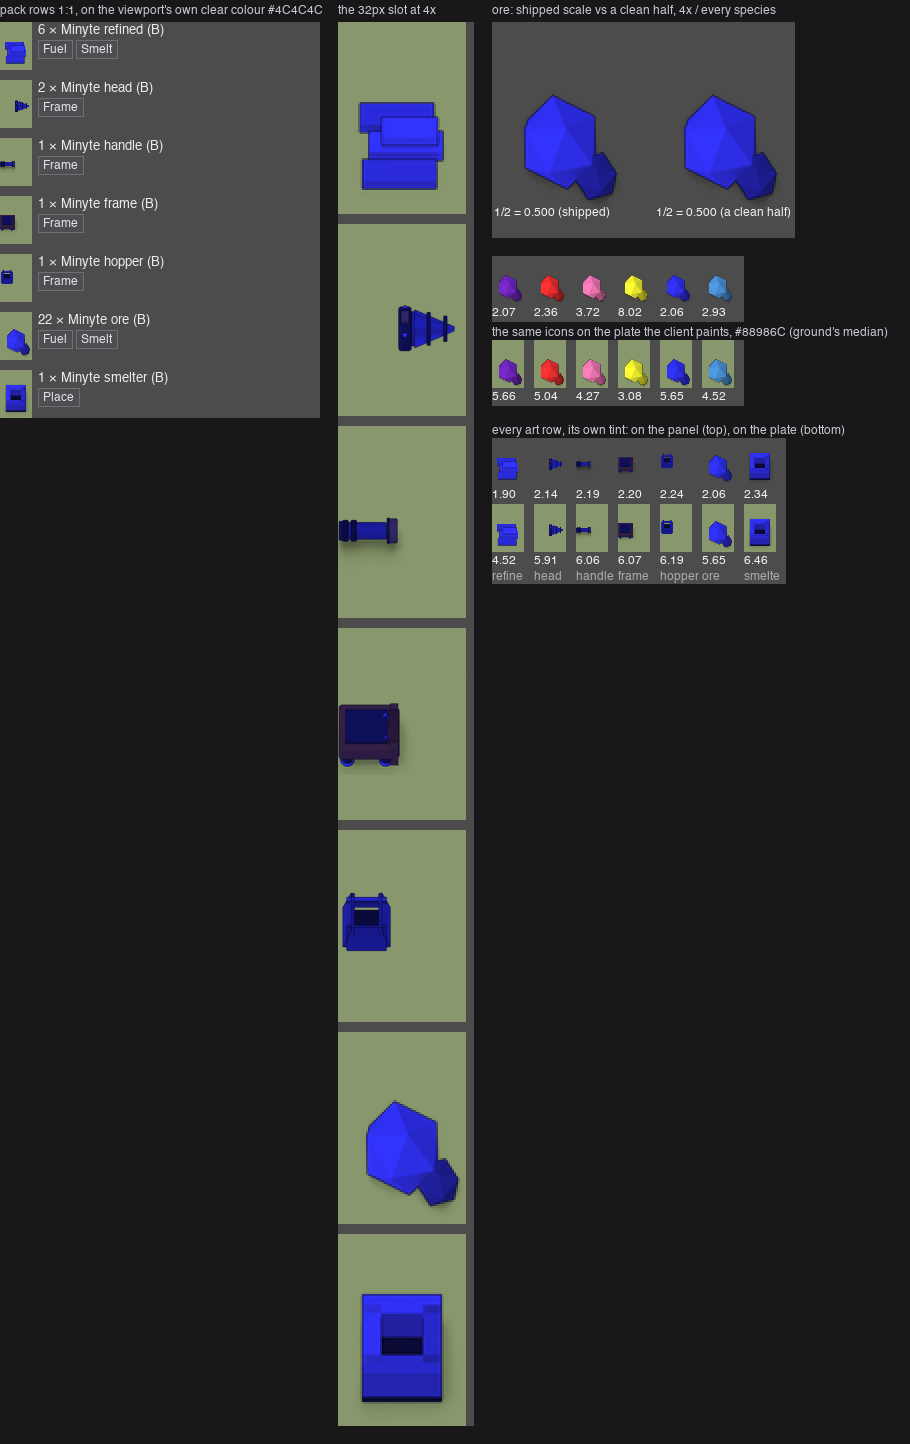
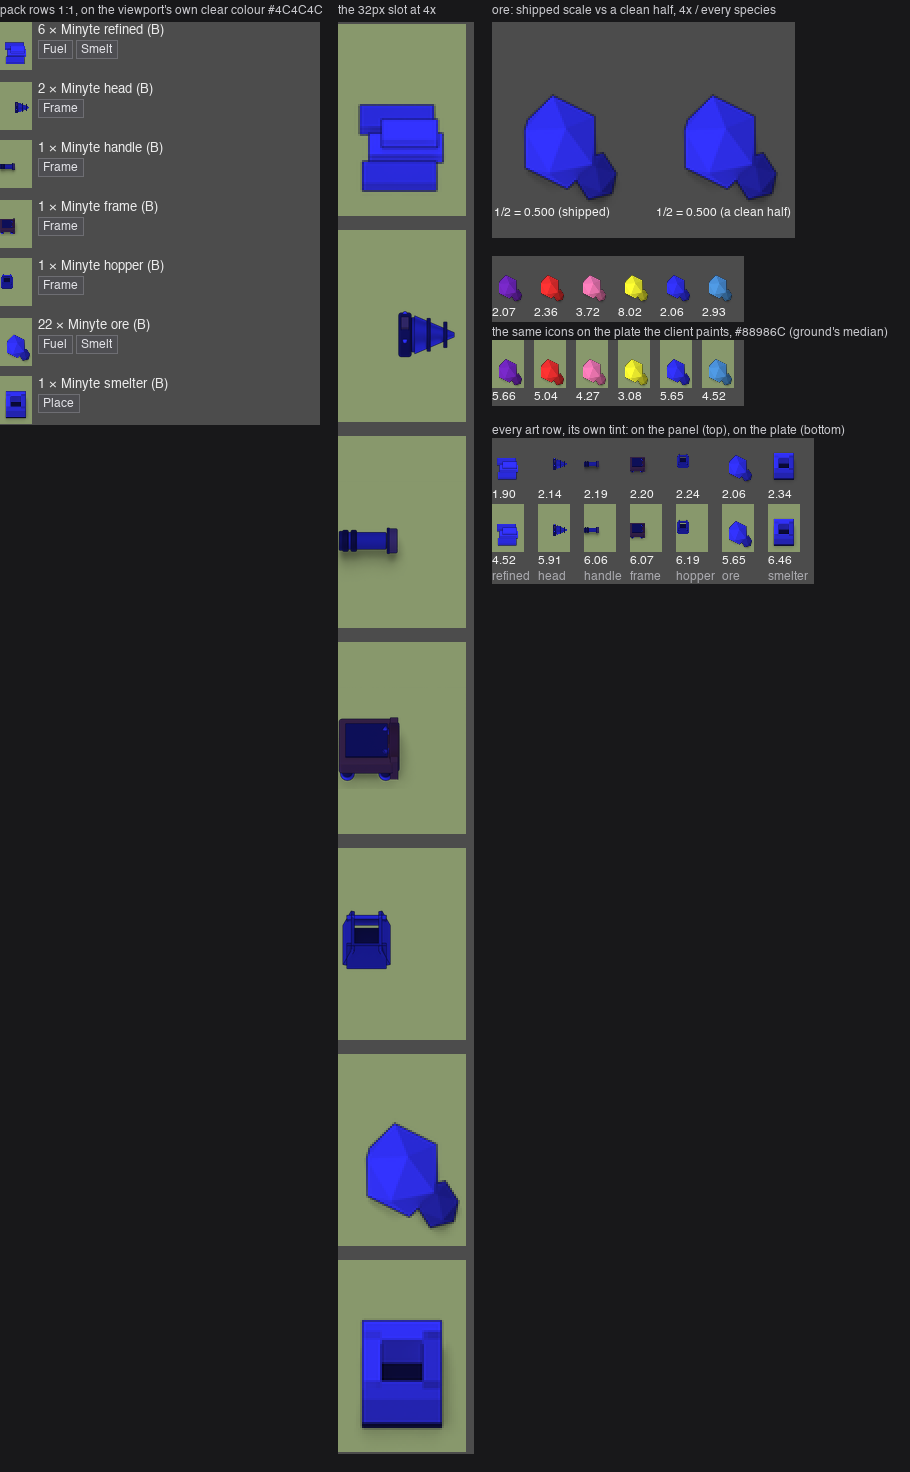
The review sheets say what the pack says today, and the strip stops truncating its labels (ASSA-114 QA, ASSA-118) (#153)
NERITE WAS RIGHT: the sheet I looked at for ASSA-114 was not the regenerated
one. `pack_rows.png` at 38e3cd8 carried an older pack, and my box 5 said "I
looked at all three REGENERATED sheets" -- the word doing the work there was
regenerated. All three are rebuilt here from a layout the engine handed back on
this branch, and the probe was run twice to show the answer does not move.
860x982 -> 860x989: the sheet reports the pack's real row height, now 49px.
pack_icon_kinds.png comes out byte-identical, which is right -- it draws sheets,
not rows.

WE DO NOT AGREE YET, AND I WOULD RATHER SAY SO. Nerite's run on 38e3cd8 showed
Mine/Craft buttons, "Make head" and 4 verbs on ore -- a pack from BEFORE Maren's
ASSA-86 split. Mine, on current main, shows the split pack. Same probe, two
answers. Most likely a stale libsim_godot.dylib in one workspace (`make
client-lib` from the repo root), which is the top cause of local-only
differences here. Re-run on this branch after a rebuild; if it still differs
that is worth more than this PR.

AND THE TINT STRIP STOPS LYING ABOUT ITS OWN ROWS (ASSA-118). It drew the kind
as `line.split()[-2][:6]` into a fixed 42px cell, so the strip Maren judges
every art row from said "refine" and "smelte" -- neither of which is a kind in
this game -- and "hopper" ran into "ore". A truncation in the units of my layout
(characters) rather than of the thing (pixels). The cell is now measured from
[…]

diff --git a/sim-game/art/pack_icon_sheet.py b/sim-game/art/pack_icon_sheet.py
@@ -31,6 +31,7 @@ from pathlib import Path
 from PIL import Image, ImageDraw, ImageFont
 
 sys.path.insert(0, str(Path(__file__).resolve().parent))
+from ask_layout import kind_of  # noqa: E402  one reader of what a row holds
 from pack_icon_draw import nearest_blit  # noqa: E402  the engine's own sampling, defined once
 
 HERE = Path(__file__).resolve().parent.parent
@@ -279,7 +280,16 @@ for i, hexv in enumerate(TINTS):
 # ONE TINT FOR ALL OF THEM, the one the engine actually hands each row (`modulate`), so this strip
 # is the shipped pack and not six species of part. The species sweep is panels 4 and 5' job.
 art_rows = [r for r in ROWS if "icon" in r]
-CELL = int(ICON) + 10
+# THE LABELS DECIDE THE CELL WIDTH, not the other way round (ASSA-118). This used to
+# draw `line.split()[-2][:6]` into a fixed 42 px cell, which is a truncation in the units
+# of my LAYOUT (characters) rather than of the thing: the strip said "refine" and "smelte"
+# -- neither of which is a kind in this game -- and "hopper" ran into "ore". Measured, as
+# the captions below already measure themselves. The kind comes from `kind_of`, the same
+# reader the checks use, rather than from counting words in the sentence.
+_KIND_LABELS = [kind_of(r) for r in art_rows]
+_label_w = max(int(ImageDraw.Draw(Image.new("RGB", (1, 1))).textlength(s, font=f12))
+               for s in _KIND_LABELS)
+CELL = max(int(ICON) + 10, _label_w + 6)
 SWATCH = 48
 both_w = CELL * len(art_rows)
 both_h = 2 * (SWATCH + 18) + 14  # the last 14 is the kind label's own line, under both numbers
@@ -298,8 +308,9 @@ for i, r in enumerate(art_rows):
         cs = sorted(contrast(p, surface) for p in ink)
         measured.append(cs)
         db.text((x, top + SWATCH + 2), "%.2f" % cs[-1], font=f12, fill=(240, 240, 240))
-    # The kind, not the whole sentence: "22 x Minyte ore (B)" does not fit a 42px cell.
-    db.text((x, 2 * (SWATCH + 18)), r["line"].split()[-2][:6], font=f12, fill=(170, 170, 175))
+    # The kind, not the whole sentence: "22 x Minyte ore (B)" does not fit a cell this
+    # wide. Whole word, though -- the cell above was measured to hold the longest of them.
+    db.text((x, 2 * (SWATCH + 18)), _KIND_LABELS[i], font=f12, fill=(170, 170, 175))
     per_row.append((r["line"], measured[0], measured[1]))
 
 # ---------------------------------------------------------------------------- assemble
